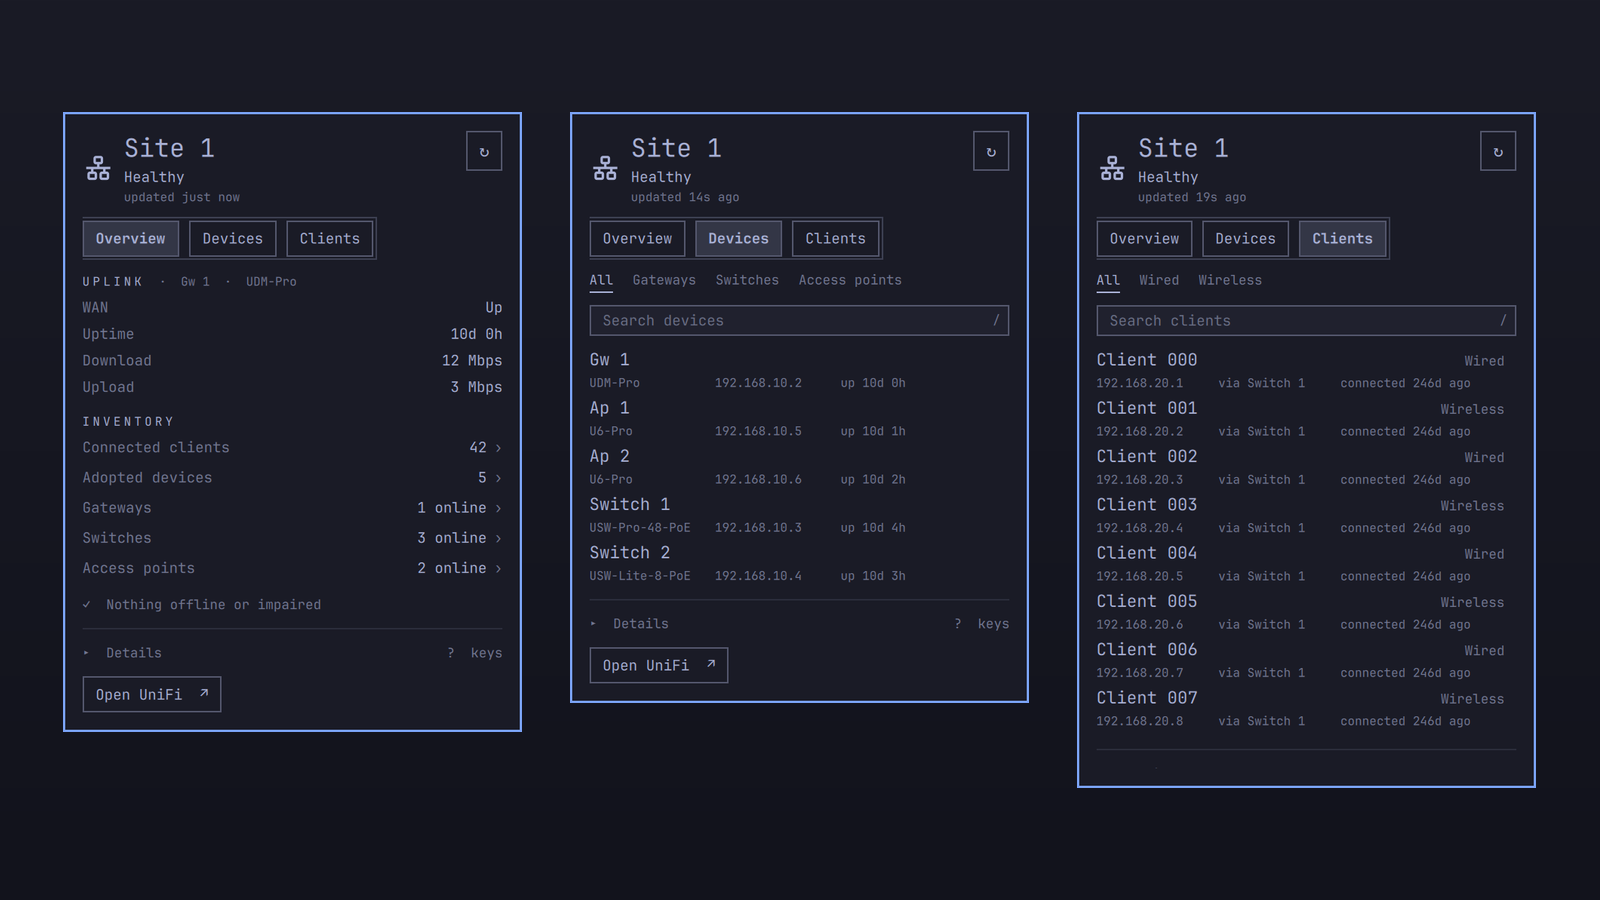
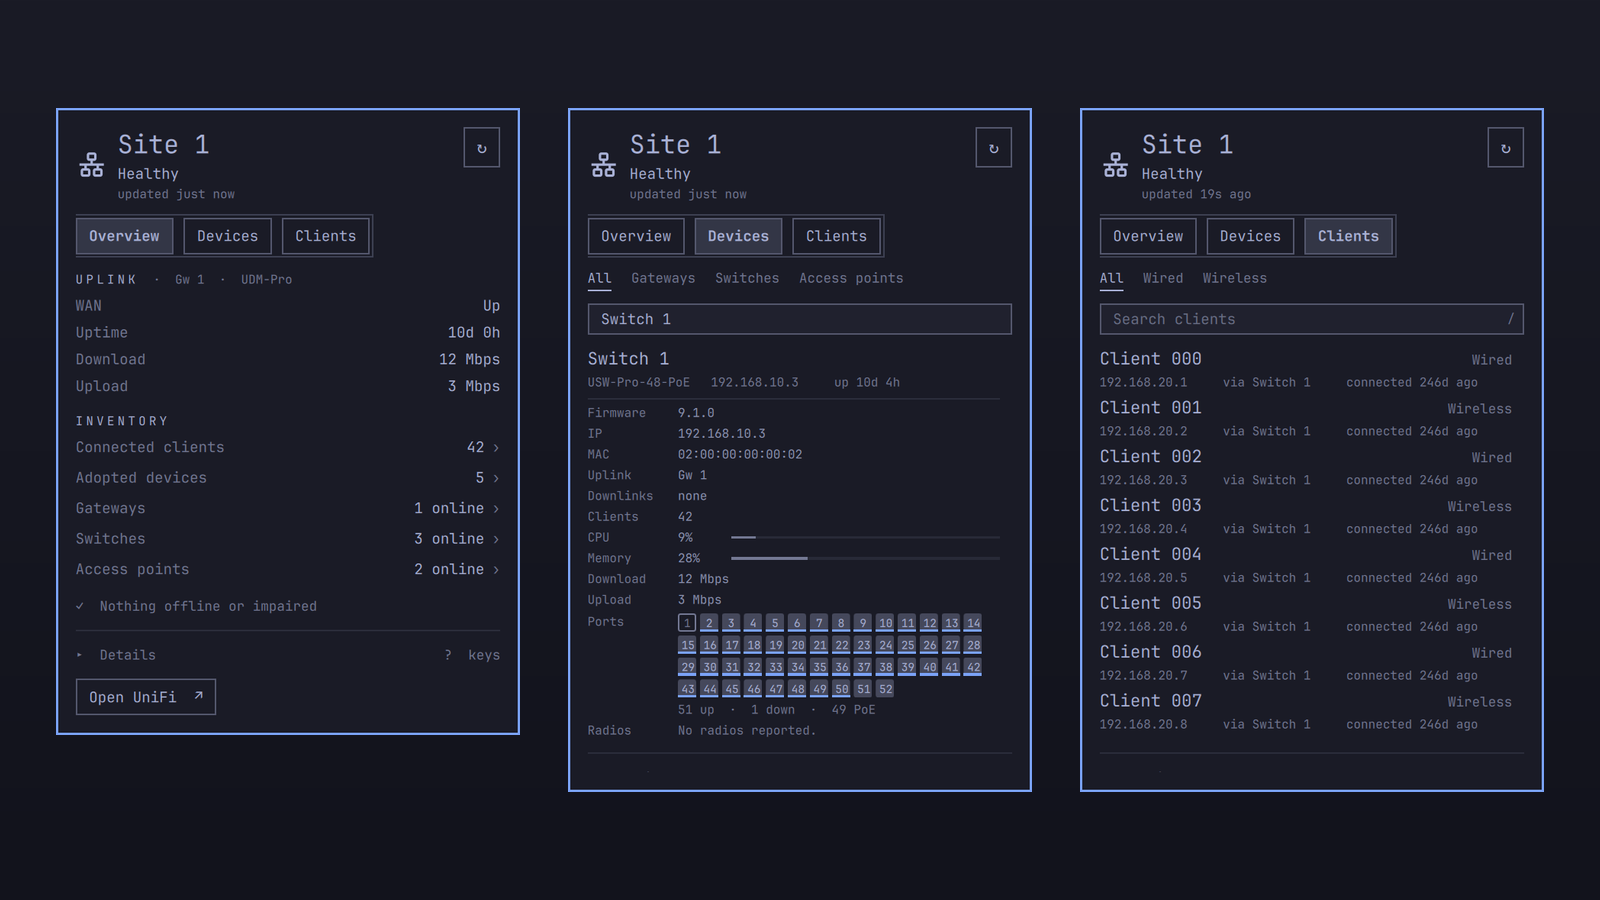
Add screenshots of an expanded switch and access point
The README showed only the three page lists, so nothing showed what a device
row expands to. Add captures of an expanded 52-port switch and an expanded
access point, from the same healthy fixture scenario, with a sentence
describing what the detail holds. The marketplace preview now shows the
expanded switch in place of the plain Devices list.

diff --git a/README.md b/README.md
@@ -15,6 +15,15 @@ three Omarchy themes including one light theme.
   <img src="docs/images/unifi-clients.png" alt="Searchable UniFi clients list in the Omarchy bar panel" width="31%">
 </p>
 
+Expand a device to see its firmware, addresses, uplink, CPU and memory,
+throughput, and its ports or radios. A switch shows every port as a square:
+filled when up, outlined when down, and underlined when it carries PoE.
+
+<p align="center">
+  <img src="docs/images/unifi-device-switch.png" alt="An expanded UniFi switch showing its details and a grid of 52 ports" width="31%">
+  <img src="docs/images/unifi-device-ap.png" alt="An expanded UniFi access point showing its details and radios" width="31%">
+</p>
+
 ## Before you install
 
 You'll need:
